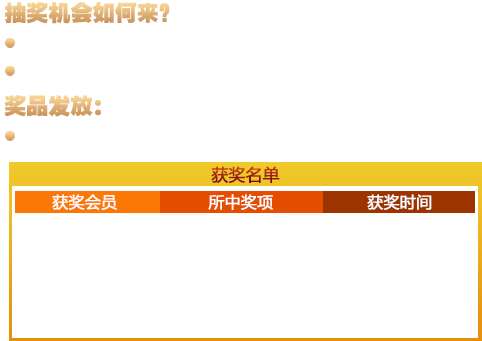
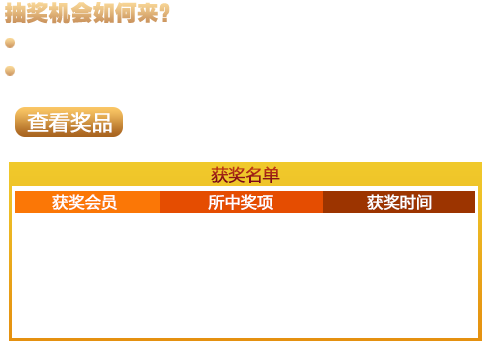
代金券抽奖完成之后就发送

Changed region(s): [[0.0, 0.2639, 0.2801, 0.4106]]

diff --git a/app/Tpl/red/lottery/lottery_index.html b/app/Tpl/red/lottery/lottery_index.html
@@ -10,10 +10,12 @@
 
 .u_name{text-align:left;}
 .you{margin:15px 0;font-size:16px;color:#FFF;}
-
+.you a{font-size:16px;color:#FFF;margin-left:20px;}
 #disk{width:465px; height:465px; background:url({$TMPL}/lottery/award_1.png) no-repeat}
 #start{width:109px; height:220px; position:absolute; top:82px; left:130px;}
 #start img{cursor:pointer}
+.my_voucher{font-size:18px; position:absolute; top:113px; left:25px;width:90px;}
+.my_voucher a{display:block;}
 </style>
 
 <script type="text/javascript" src="/ajax.googleapis.com/ajax/libs/jquery/1.9.1/jquery.min.js"></script>
@@ -113,11 +115,17 @@
 		<div class="box_letf">
 		
 		 			<p class="you">
-					<?php if($GLOBALS['user_info']['id']):?>
-					你有<span id="award_sec">{$award_sec}</span>次抽奖机会
+					<?php if($GLOBALS['user_info']['id']):?>  <!--登陆-->
+					你有<span id="award_sec">
+					
+						{$award_sec}
+						
+					</span>次抽奖机会
 					<?php else:?>
 					&nbsp;
 					<?php endif;?>
+					
+					
 					</p>
 		
 		   <div class="lottery">
@@ -127,6 +135,7 @@
 		   </div>
 		</div>
 		<div class="box_right">
+			<p class="my_voucher"><a href="index.php?ctl=uc_voucher">&nbsp;</a>	</p>
 			<div class="userlist">
                 <ul class="scrollNews">
                     {foreach from="$award_log" item="v" key="k"}

diff --git a/app/Lib/module/indexModule.class.php b/app/Lib/module/indexModule.class.php
@@ -221,7 +221,7 @@ class indexModule extends SiteBaseModule
 		if($user_id){
 		$user_award = $GLOBALS['db']->getRow("select * from ".DB_PREFIX."lottery where uid=".$user_id);//改会员抽奖次数
 		//var_dump($user_award);exit;
-		$award_sec=$user_award['draw_sec']; 
+		$award_sec=$user_award['draw_sec']?$user_award['draw_sec']:0; 
 		
 		$GLOBALS['tmpl']->assign("award_sec",$award_sec);
 		}
